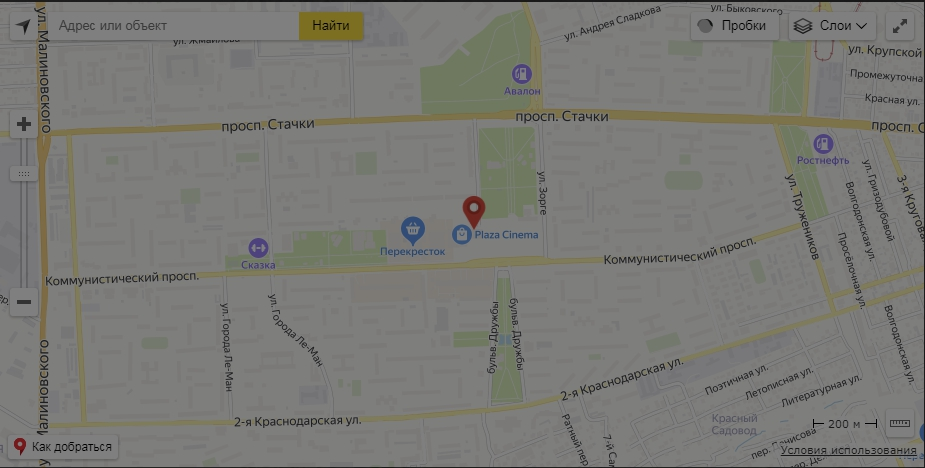
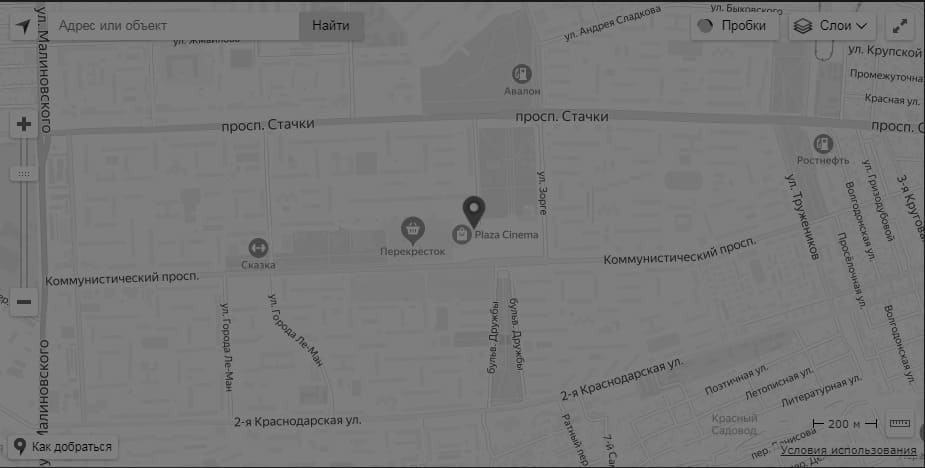
refact: add link mail & add link on Button on hero outline & fix undex.html & black and white image map

diff --git a/index.html b/index.html
@@ -12,7 +12,7 @@
   <link rel="shortcut icon" href="http://andrewkrisanov-web.ru/repair-design/favicon.ico" type="image/x-icon">
 </head>
 <body>
-  <!-- Yandex.Metrika counter --> <script type="text/javascript" > (function(m,e,t,r,i,k,a){m[i]=m[i]||function(){(m[i].a=m[i].a||[]).push(arguments)}; m[i].l=1*new Date();k=e.createElement(t),a=e.getElementsByTagName(t)[0],k.async=1,k.src=r,a.parentNode.insertBefore(k,a)}) (window, document, "script", "/metrika/tag.js", "ym"); ym(64423690, "init", { clickmap:true, trackLinks:true, accurateTrackBounce:true, webvisor:true }); </script> <noscript><div><img src="https://mc.yandex.ru/watch/64423690" style="position:absolute; left:-9999px;" alt="" /></div></noscript> <!-- /Yandex.Metrika counter -->
+  <!-- Yandex.Metrika counter --> <script> (function(m,e,t,r,i,k,a){m[i]=m[i]||function(){(m[i].a=m[i].a||[]).push(arguments)}; m[i].l=1*new Date();k=e.createElement(t),a=e.getElementsByTagName(t)[0],k.async=1,k.src=r,a.parentNode.insertBefore(k,a)}) (window, document, "script", "/metrika/tag.js", "ym"); ym(64423690, "init", { clickmap:true, trackLinks:true, accurateTrackBounce:true, webvisor:true }); </script> <noscript><div><img src="https://mc.yandex.ru/watch/64423690" style="position:absolute; left:-9999px;" alt="" /></div></noscript> <!-- /Yandex.Metrika counter -->
   <header class="header">
     <div class="container">
       <div class="menu">
@@ -57,7 +57,7 @@
             </p>
             <div class="buttons hero__buttons">
               <button class="button hero__button button--primary" data-toggle="modal">Рассчитать стоимость</button>
-              <button class="button hero__button button--outline">Оставить заявку</button>
+              <button class="button hero__button button--outline" data-toggle="modal">Оставить заявку</button>
             </div>
             <!-- /.buttons hero__buttons -->
         </div>
@@ -944,10 +944,10 @@
         </h3>
         <!-- /.title footer__title title-primary -->
         <div class="social-links footer__social-links">
-          <a href="#" class="footer__link footer__link-email">
+          <a href="mailto:andrewkrisanov@gmail.com" class="footer__link footer__link-email">
             <img src="img/footer/icon-email.svg" class="footer__icon-email" alt="email-icon">
           </a> <!-- /.footer__link-email -->
-          <a href="#" class="footer__link footer__link-email footer__link-email-mobile">
+          <a href="mailto:andrewkrisanov@gmail.com" class="footer__link footer__link-email footer__link-email-mobile">
             <img src="img/footer/icon-email-mobile.svg" class="footer__icon-email" alt="email-icon">
           </a> <!-- /.footer__link-email -->
           <a href="https://www.instagram.com" class="footer__link footer__link-instagram">
